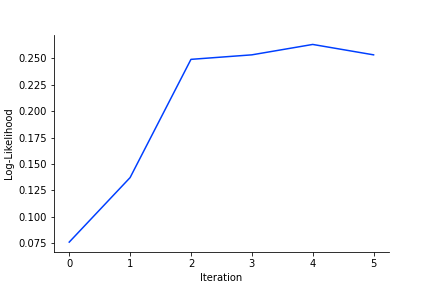
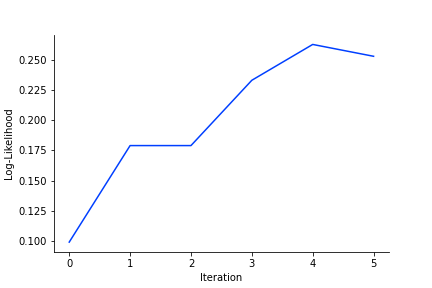
Also fixed Q3

diff --git a/HW2/HW2_Q3_greedy_heuristic.py b/HW2/HW2_Q3_greedy_heuristic.py
@@ -38,7 +38,7 @@ def log_likelihood(graph:Graph, partition:list, directed=False):
     for u, v in combinations_with_replacement(groups, 2):
         #Get either Nuu or Nuv
         if u == v:
-            N = partition.count(u) * (partition.count(u) - 1)
+            N = partition.count(u) * (partition.count(u) - 1) / 2
         else:
             N = partition.count(u) * partition.count(v)
         
